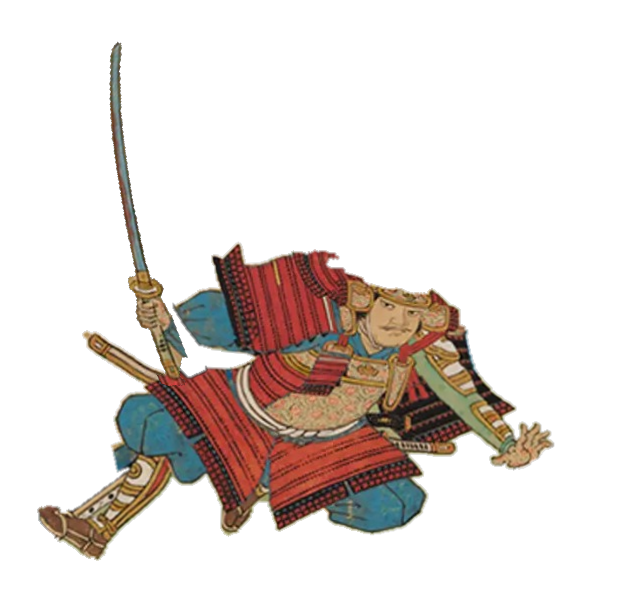
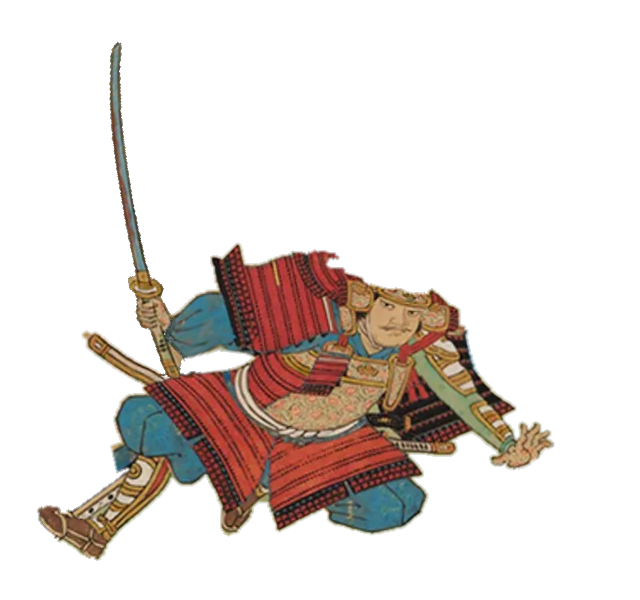
fix: 袖口が刀の層に入って一緒に動いていたのを修正
鍔より下では袖口の青と草摺の赤を色で刀の層から外し、袖口の制御点を手と同じ剛体変換に従わせる。

Claude-Session: https://claude.ai/code/session_01MRkYuQh9ee28DJTpxPr6ud

diff --git a/shuten-doji-animation-prototype/tools/make_frames.py b/shuten-doji-animation-prototype/tools/make_frames.py
@@ -23,6 +23,10 @@ BLADE = [(32, 172), (36, 200), (46, 225), (57, 250), (71, 275), (85, 300),
 HAND_GRIP = [(105, 378), (135, 372), (160, 396), (166, 418), (197, 455),
              (200, 470), (186, 476), (150, 442), (126, 428), (108, 402)]
 GRIP = (140.0, 405.0)        # 柄を握る手（刀の回転の支点）
+# 鍔より下では、柄に接する袖口（青）と草摺（赤）を刀の層から外す
+CLOTH_BELOW_Y = 398
+CUFF_HUE, CUFF_SMIN = (75, 120), 40
+RED_HUE, RED_SMIN = (8, 170), 100
 SHOULDER = (238.0, 418.0)    # 左肩（腕の弧の支点）
 
 # 制御点: (x, y, 胴の前傾に追従する割合, 部位)
@@ -43,8 +47,9 @@ CONTROLS = [
     (220, 560, 0.5, "skirt"), (300, 585, 0.45, "skirt"), (360, 555, 0.5, "skirt"),
     (95, 438, 0.5, "scabbard"), (145, 472, 0.5, "scabbard"),
     (430, 545, 0.5, "tanto"),
-    # 左腕（手に追従）
-    (205, 425, 0.7, "sleeve"), (185, 440, 0.7, "sleeve"), (168, 418, 1.0, "cuff"),
+    # 左腕。袖口（手首を包む縁）は手と同じ剛体変換、袖の中ほどは手と胴の中間
+    (178, 412, 1.0, "cuff"), (186, 430, 1.0, "cuff"), (196, 448, 1.0, "cuff"),
+    (215, 420, 0.7, "sleeve"), (218, 445, 0.7, "sleeve"),
     # 右腕
     (455, 445, 0.6, "rarm"), (490, 520, 0.4, "rarm"), (527, 550, 0.3, "rhand"),
 ]
@@ -87,13 +92,29 @@ def sword_transform(f):
     return m
 
 
+def cloth_mask(base):
+    hsv = cv2.cvtColor(base[..., :3], cv2.COLOR_BGR2HSV)
+    h, s = hsv[..., 0].astype(int), hsv[..., 1].astype(int)
+    blue = (h >= CUFF_HUE[0]) & (h <= CUFF_HUE[1]) & (s >= CUFF_SMIN)
+    red = ((h <= RED_HUE[0]) | (h >= RED_HUE[1])) & (s >= RED_SMIN)
+    cloth = (blue | red).astype(np.uint8)
+    # 布の縁の暗い輪郭線も布側に含める
+    dark = hsv[..., 2] < 90
+    cloth = (cloth > 0) | ((cv2.dilate(cloth, np.ones((3, 3), np.uint8)) > 0) & dark)
+    cloth[: CLOTH_BELOW_Y - OY] = False
+    return cloth
+
+
 def split_layers(base):
     alpha = base[..., 3] > 0
     m = np.zeros(alpha.shape, np.uint8)
     cv2.polylines(m, [to_canvas(BLADE).astype(np.int32)], False, 255, 24)
     cv2.fillPoly(m, [to_canvas(HAND_GRIP).astype(np.int32)], 255)
     m = cv2.dilate(m, np.ones((9, 9), np.uint8))
-    region = (m > 0) & alpha
+    region = ((m > 0) & alpha & ~cloth_mask(base)).astype(np.uint8)
+    # 布を外した跡に残る小さな切れ端は布側に戻す
+    n, lab, st, _ = cv2.connectedComponentsWithStats(region, connectivity=4)
+    region = np.isin(lab, [i for i in range(1, n) if st[i, cv2.CC_STAT_AREA] >= 30])
     # 輪郭のにじみの輪（元の背景色）は刀と一緒に動かさない
     core = cv2.erode(alpha.astype(np.uint8), cv2.getStructuringElement(cv2.MORPH_ELLIPSE, (5, 5))) > 0
     sword = region & core
@@ -155,7 +176,7 @@ def control_targets(f, sword_m):
         if part == "sleeve":
             d = d * 0.4 + grip_move * 0.6
         if part == "cuff":
-            d = grip_move.copy()
+            d = cv2.transform(p[None, None], sword_m)[0, 0] - p
         if part in SWAY_PARTS:
             d = d + np.array(SWAY_PARTS[part], np.float32) * f["sway"]
         src.append(p)
